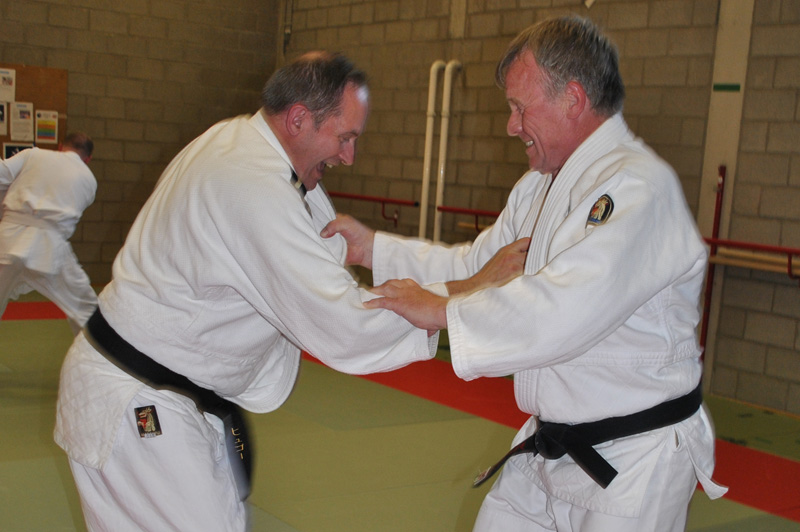
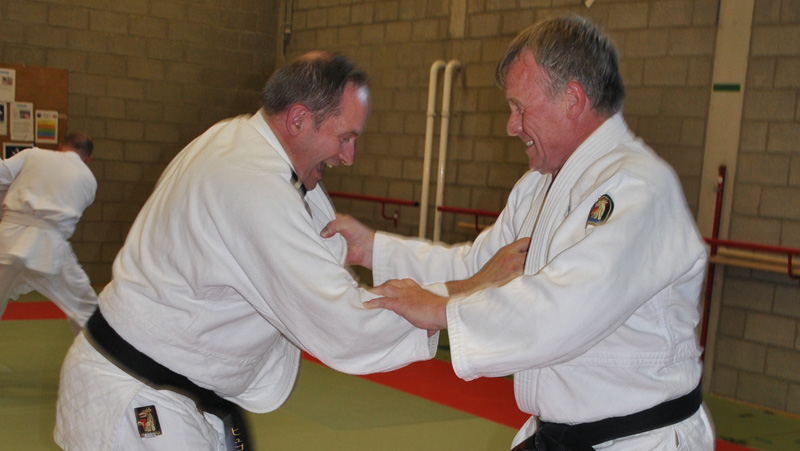
groepen: fix images

diff --git a/src/content/pages/groepen/index.md b/src/content/pages/groepen/index.md
@@ -8,7 +8,7 @@ Dit zijn onze verschillende judogroepen. Ontdek welke groep het beste bij jou pa
 
 ## <a href="/groepen/kleuters">Kleuters (3-6 jaar)</a>
 
-<a href="/groepen/kleuters">![kleuters](../../../assets/images/groepen/kleuters.webp)</a>
+<a href="/groepen/kleuters">![kleuters](../../../assets/images/groepen/kleuters.jpg)</a>
 
 ## <a href="/groepen/benjamins">Benjamins (6-8 jaar)</a>
 

diff --git a/src/content/pages/groepen/benjamins.md b/src/content/pages/groepen/benjamins.md
@@ -1,7 +1,7 @@
 ---
 title: "Benjamins (6-8 jaar)"
 description: "Judo voor kinderen van 6 tot 12 jaar"
-heroImage: "groepen/Benjamins1.jpg"
+heroImage: "groepen/benjamins.jpg"
 heroImageAlt: "Kinderen leren judo technieken"
 ---
 

diff --git a/src/content/pages/groepen/jongeren.md b/src/content/pages/groepen/jongeren.md
@@ -1,7 +1,7 @@
 ---
 title: "Jongeren (8-14 jaar)"
 description: "Judo voor jongeren van 8 tot 14 jaar"
-heroImage: "groepen/Jongeren1.jpg"
+heroImage: "groepen/jongeren.jpg"
 heroImageAlt: "Jongeren tijdens judotraining"
 ---
 

diff --git a/src/content/pages/groepen/kleuters.md b/src/content/pages/groepen/kleuters.md
@@ -1,7 +1,7 @@
 ---
 title: "Kleuters (3-6 jaar)"
 description: "Informatie over kleuterjudo"
-heroImage: "groepen/Kleuters1.jpg"
+heroImage: "groepen/kleuters.jpg"
 heroImageAlt: "Kleuters op de tatami"
 ---
 
